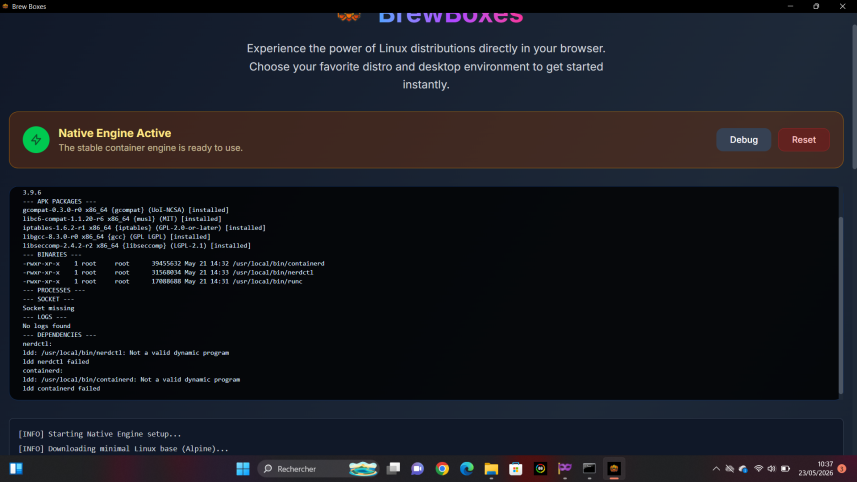
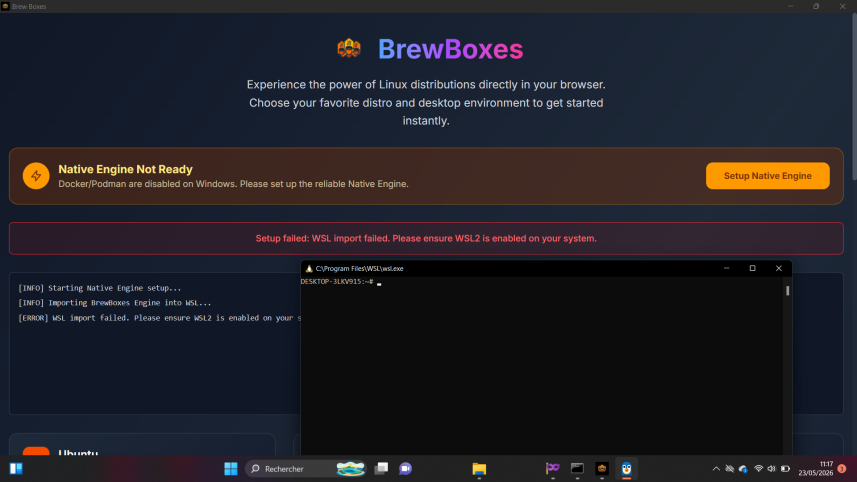
fuck  winblows

diff --git a/src-tauri/src/lib.rs b/src-tauri/src/lib.rs
@@ -240,18 +240,20 @@ async fn setup_native_engine(window: Window, app: AppHandle) -> Result<(), Strin
     if !rootfs_tar.exists() {
         window.emit("progress", serde_json::json!({"type": "status", "message": "Downloading minimal Linux base (Alpine 3.24)..."})).unwrap();
         let mut download = StdCommand::new("curl");
-        download.args(["-L", "-o", rootfs_tar.to_str().unwrap(), "https://dl-cdn.alpinelinux.org/alpine/v3.24/releases/x86_64/alpine-minirootfs-3.24.0-x86_64.tar.gz"]);
+        download.args(["-L", "-f", "-o", rootfs_tar.to_str().unwrap(), "https://dl-cdn.alpinelinux.org/alpine/v3.24/releases/x86_64/alpine-minirootfs-3.24.0-x86_64.tar.gz"]);
         #[cfg(windows)]
         download.creation_flags(0x08000000);
         let status = download.status().map_err(|e| format!("Failed to download Alpine: {}", e))?;
-        if !status.success() { return Err("Failed to download Alpine rootfs.".to_string()); }
+        if !status.success() { return Err("Failed to download Alpine rootfs. Please check your internet connection.".to_string()); }
+    } else {
+        window.emit("progress", serde_json::json!({"type": "status", "message": "Using existing Alpine 3.24 rootfs."})).unwrap();
     }
 
     // 2. Download Nerdctl (Container Management)
     if !nerdctl_tar.exists() {
-        window.emit("progress", serde_json::json!({"type": "status", "message": "Downloading container runtime (Nerdctl)..."})).unwrap();
+        window.emit("progress", serde_json::json!({"type": "status", "message": "Downloading container runtime (Nerdctl 2.3.1)..."})).unwrap();
         let mut download = StdCommand::new("curl");
-        download.args(["-L", "-o", nerdctl_tar.to_str().unwrap(), "https://github.com/containerd/nerdctl/releases/download/v2.3.1/nerdctl-full-2.3.1-linux-amd64.tar.gz"]);
+        download.args(["-L", "-f", "-o", nerdctl_tar.to_str().unwrap(), "https://github.com/containerd/nerdctl/releases/download/v2.3.1/nerdctl-full-2.3.1-linux-amd64.tar.gz"]);
         #[cfg(windows)]
         download.creation_flags(0x08000000);
         let status = download.status().map_err(|e| format!("Failed to download Nerdctl: {}", e))?;
@@ -268,12 +270,22 @@ async fn setup_native_engine(window: Window, app: AppHandle) -> Result<(), Strin
     unregister.creation_flags(0x08000000);
     let _ = unregister.status();
 
+    // Ensure install dir is clean and exists
+    if install_dir.exists() {
+        let _ = fs::remove_dir_all(&install_dir);
+    }
+    fs::create_dir_all(&install_dir).map_err(|e| e.to_string())?;
+
     let mut import = StdCommand::new("wsl");
     import.args(["--import", "brewboxes-engine", install_dir.to_str().unwrap(), rootfs_tar.to_str().unwrap(), "--version", "2"]);
     #[cfg(windows)]
     import.creation_flags(0x08000000);
-    let status = import.status().map_err(|e| format!("Failed to import WSL distro: {}", e))?;
-    if !status.success() { return Err("WSL import failed. Please ensure WSL2 is enabled on your system.".to_string()); }
+    
+    let output = import.output().map_err(|e| format!("Failed to execute WSL import: {}", e))?;
+    if !output.status.success() { 
+        let err_msg = String::from_utf8_lossy(&output.stderr);
+        return Err(format!("WSL import failed: {}. Please ensure WSL2 is enabled on your system.", err_msg.trim())); 
+    }
 
     // 4. Extract Nerdctl inside distro
     window.emit("progress", serde_json::json!({"type": "status", "message": "Initializing container runtime inside engine..."})).unwrap();
@@ -293,12 +305,14 @@ async fn setup_native_engine(window: Window, app: AppHandle) -> Result<(), Strin
     extract.args(["-d", "brewboxes-engine", "-u", "root", "--", "sh", "-c", &extract_script]);
     #[cfg(windows)]
     extract.creation_flags(0x08000000);
-    let status = extract.status().map_err(|e| format!("Failed to extract nerdctl: {}", e))?;
-    if !status.success() { 
-        return Err("Failed to initialize container runtime inside WSL.".to_string()); 
+    
+    let output = extract.output().map_err(|e| format!("Failed to execute initialization: {}", e))?;
+    if !output.status.success() { 
+        let err_msg = String::from_utf8_lossy(&output.stderr);
+        return Err(format!("Initialization failed: {}. This might be due to missing dependencies or binary incompatibility.", err_msg.trim())); 
     }
 
-    window.emit("progress", serde_json::json!({"type": "status", "message": "Native Engine setup complete!"})).unwrap();
+    window.emit("progress", serde_json::json!({"type": "status", "message": "Native Engine setup complete! You can now start using BrewBoxes distros."})).unwrap();
     Ok(())
 }
 
